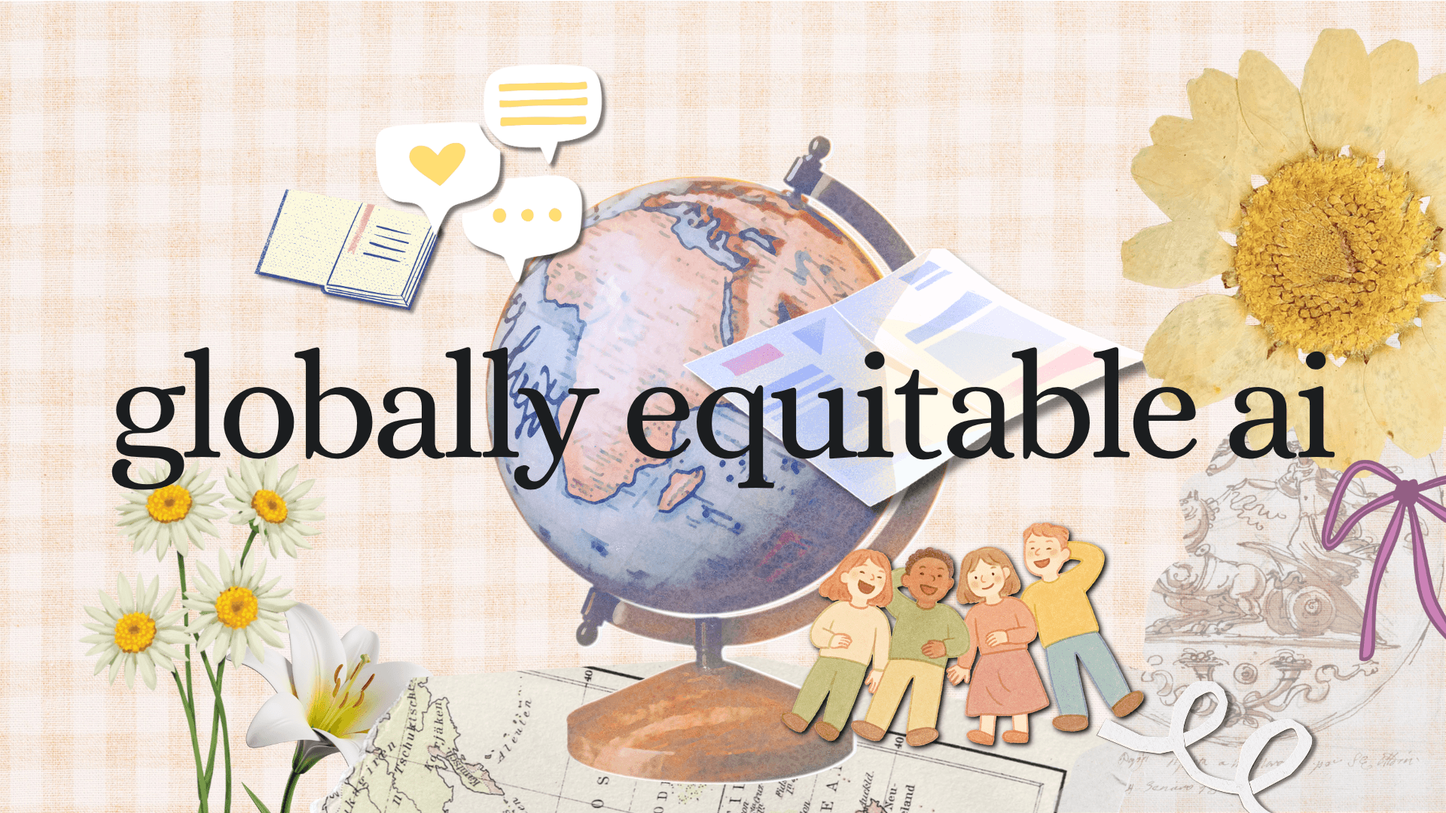
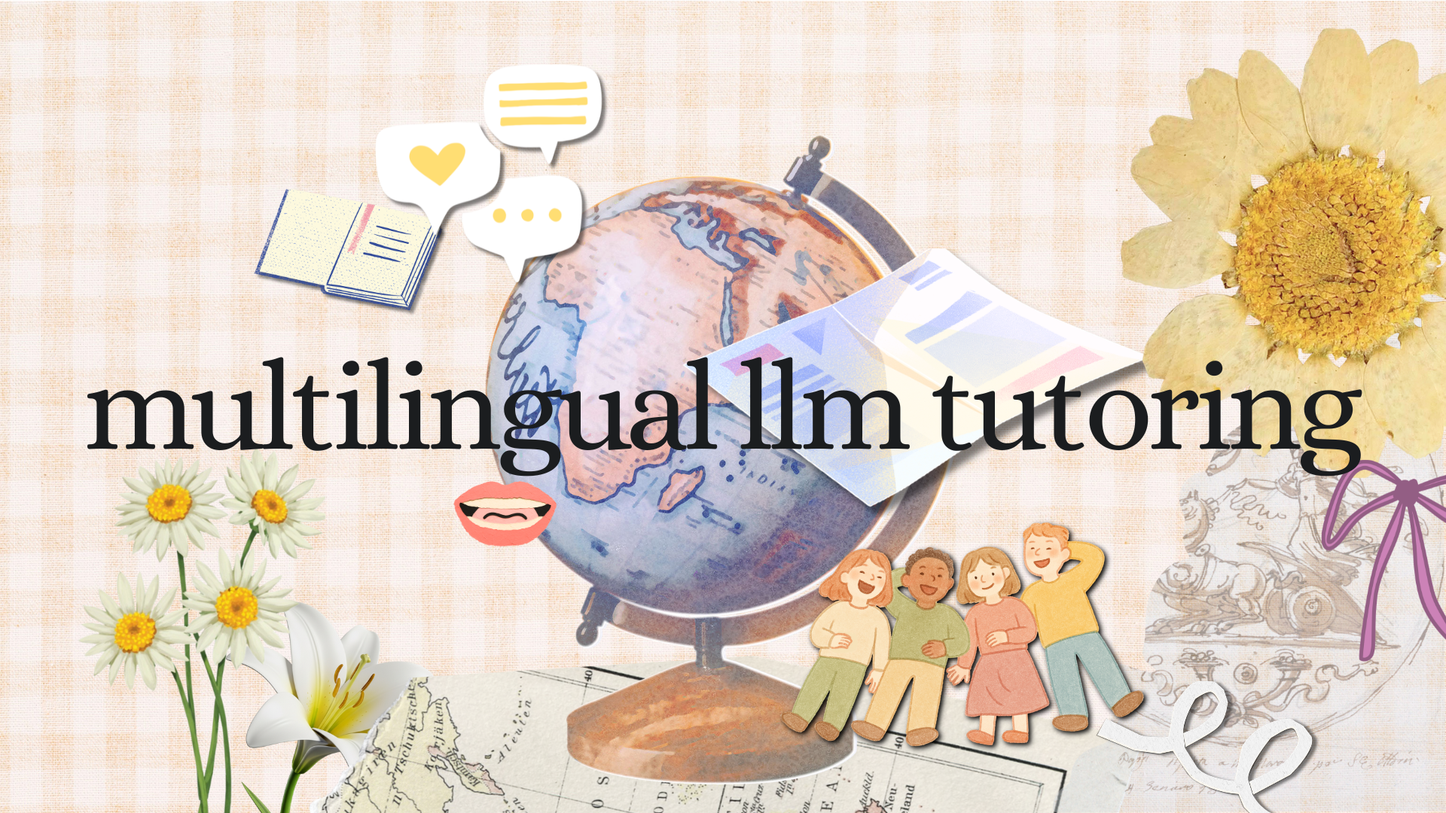
update portfolio content

Changed region(s): [[0.0625, 0.4278, 0.9375, 0.6722], [0.1875, 0.9167, 0.2188, 1.0], [0.2188, 0.8556, 0.25, 0.8861]]

diff --git a/src/components/ChannelHeader.jsx b/src/components/ChannelHeader.jsx
@@ -43,7 +43,7 @@ function ChannelHeader() {
               {/* Desktop: description, links, contact inside the column */}
               <div className="hidden md:block">
                 <div className="text-sm text-gray-400 mt-1 mb-3">
-                  <p>Hi! CS student @ Cornell who loves spring weather and bringing ethical technology to the table.</p>
+                  <p>Hi! CS student @ Cornell. I build AI and other technologies that expand possibilities for underrepresented communities, students, and corporations.</p>
                 </div>
                 <div className="flex items-center gap-4 text-sm mb-3">
                   <a href="https://www.linkedin.com/in/emily-yang-55b082330/" target="_blank" rel="noopener noreferrer" className="text-blue-400 hover:text-blue-300 flex items-center gap-1.5">
@@ -89,7 +89,7 @@ function ChannelHeader() {
           {/* Mobile: description + links + subscribe spanning full width */}
           <div className="md:hidden mt-1">
             <div className="text-sm text-gray-400 mb-2">
-              <p>Hi! CS student @ Cornell who loves spring weather and bringing ethical technology to the table.</p>
+              <p>Hi! CS student @ Cornell. I build AI and other technologies that expand possibilities for underrepresented communities, students, and corporations.</p>
             </div>
             <div className="flex items-center gap-4 text-sm mb-3">
               <a href="https://www.linkedin.com/in/emily-yang-55b082330/" target="_blank" rel="noopener noreferrer" className="text-blue-400 hover:text-blue-300 flex items-center gap-1.5">

diff --git a/src/data/portfolio.js b/src/data/portfolio.js
@@ -18,7 +18,7 @@ export const portfolioData = {
 
       dateRange: 'Aug 2025 – Present',
       thumbnail: prism,
-      techStack: [],
+      techStack: ['Python', 'NLP', 'Transformers', 'Pydantic', 'FastAPI'],
       link: 'https://bowers.cornell.edu/belonging-bowers/ascend',
       linkLabel: 'ASCEND Website'
     },
@@ -91,7 +91,7 @@ export const portfolioData = {
   research: [
     {
       id: 'research-1',
-      title: 'Research Assistant',
+      title: 'LLM Tutoring Evaluation Across Languages | Research Assistant',
       company: 'Cornell BURE Program',
 
       dateRange: 'June 2026 – Present',
@@ -102,7 +102,7 @@ export const portfolioData = {
     },
     {
       id: 'research-2',
-      title: 'Highlighting Conflicting Stakeholder Values in Ethical AI Development',
+      title: 'Marketplace Challenges and Conflicts of Ethical AI Policy',
       company: 'Polygence Research Program',
 
       dateRange: 'Jan 2024 – Dec 2024',
@@ -116,12 +116,12 @@ export const portfolioData = {
   hobbies: [
     {
       id: 'hobby-1',
-      title: 'Celeb Portraits | Digital Art',
+      title: 'Digital Art',
       company: null,
 
       dateRange: '2018 – Present',
       thumbnail: art,
-      techStack: ['IbisPaint X', 'Krita'],
+      techStack: [],
       link: null
     }
   ]

diff --git a/src/App.jsx b/src/App.jsx
@@ -7,7 +7,7 @@ function App() {
     { key: 'work', title: 'Work Experience' },
     { key: 'projects', title: 'Projects' },
     { key: 'research', title: 'Research' },
-    { key: 'hobbies', title: 'Fun Stuff' }
+    { key: 'hobbies', title: 'Hobbies' }
   ];
 
   return (
